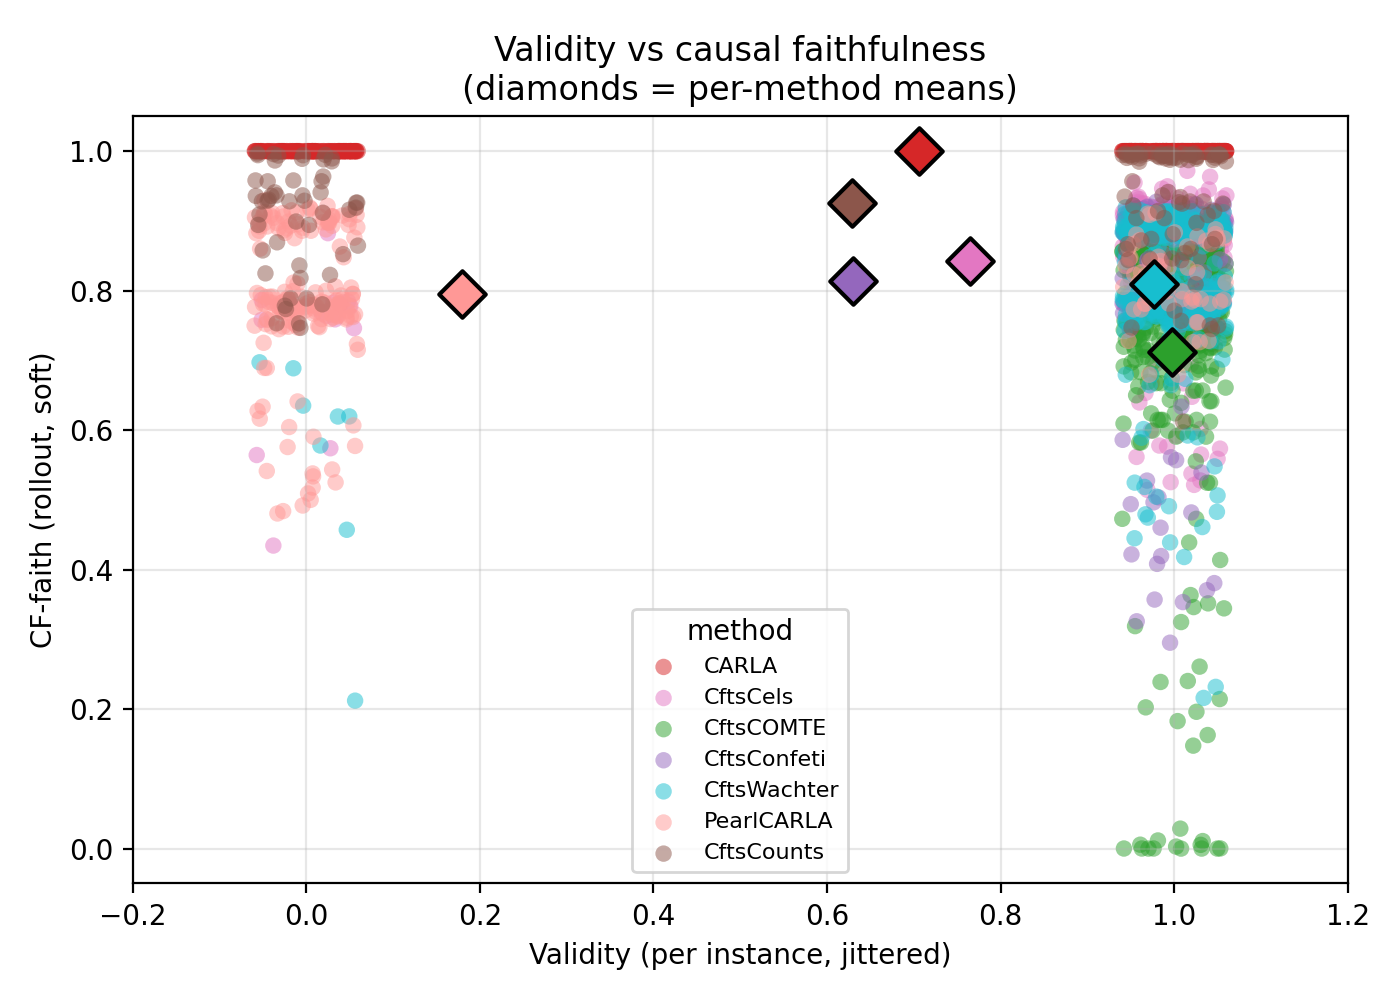
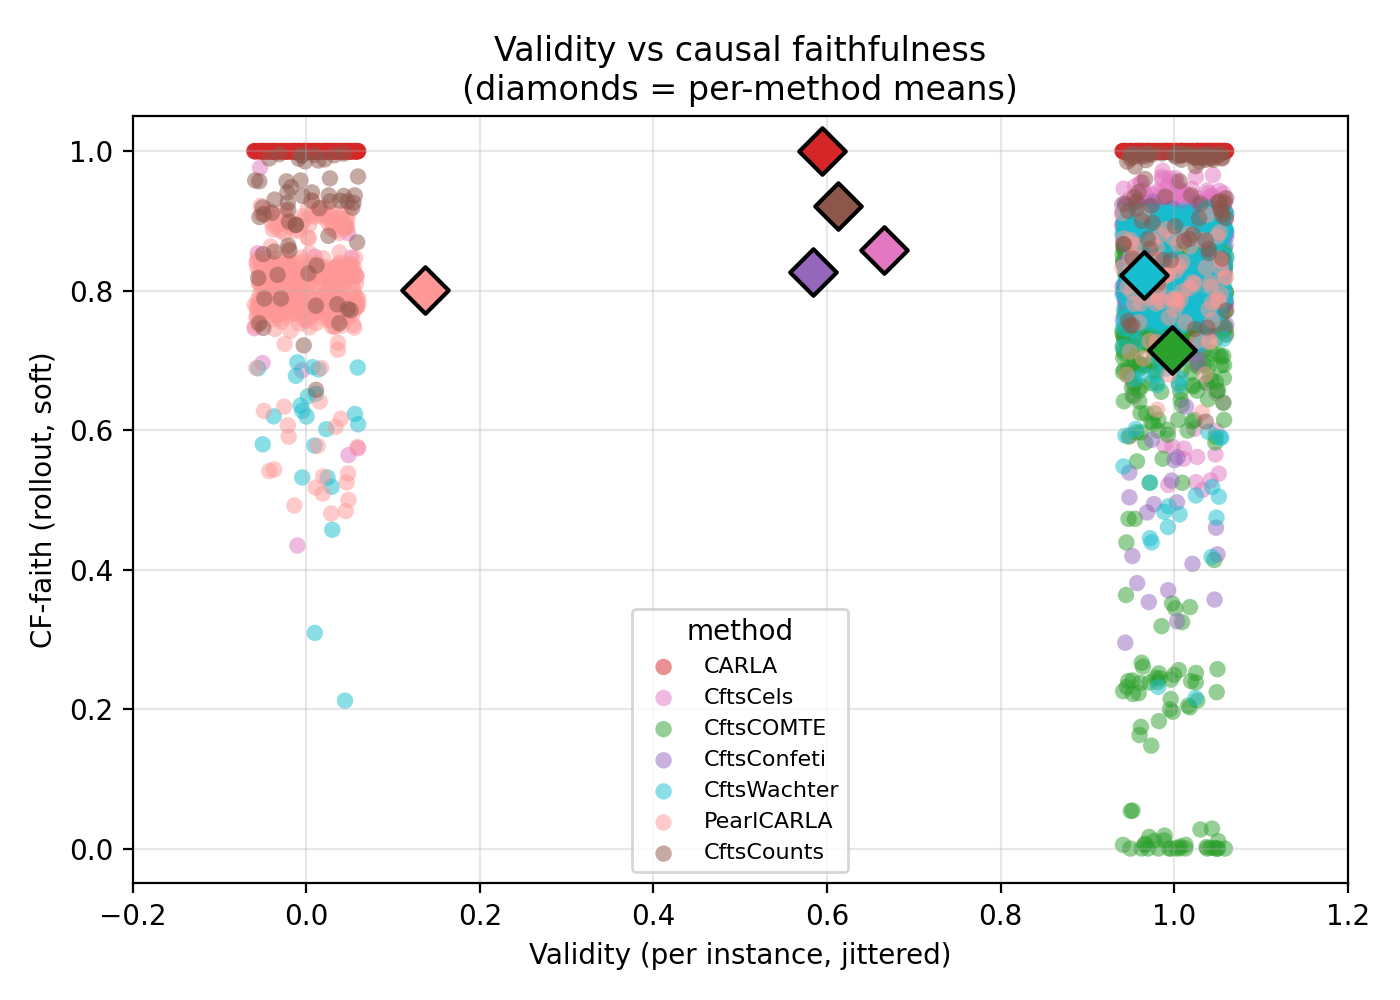
[experiments] fig5: validity vs intervention-to-outcome distance, closing an M2 DoD gap
Closes the M2 DoD item "every validity and PNS figure reported with T - t0" --
none of fig1-4 carried a horizon axis; fig1 pools every config's per-instance
rows into one scatter with no per-config T, so retrofitting T-t0 into it would
have been ambiguous rather than fixed.

fig5_horizon_decay plots validity against T-t0 directly from
table_horizon_<configA>_vs_<configB>.csv -- Phase 06's already-computed,
seed-pooled, bootstrap-CI'd data, not recomputed here -- one line per
(method, config), CI band shaded. Only the CARLA family appears, matching
Phase 06's own deliberate scope (sweeping Wachter-style unconstrained edits on
the same axis as single-do() methods would conflate two failure modes). Skips
cleanly (returns False, writes nothing) if no horizon table exists yet, so a
smoke-only `figures` run doesn't fail on missing paper-scale data.

Renders the actual shape of H8/H8c's evidence: validity near 1.0 at small
T-t0, collapsing past ~T-t0=20 on the terminal-label configs, with the
interior-label configs' curves visibly offset -- the H8c contrast in a single
image rather than only in a table.

460 tests green; lint clean.

diff --git a/experiments/08_aggregate_and_report.py b/experiments/08_aggregate_and_report.py
@@ -389,7 +389,10 @@ def run_figures_report(args) -> None:
     fig2_distributions(data, methods, out_dir / "fig2_cffaith_distribution.png")
     fig3_rank_correlation(data, methods, out_dir / "fig3_rank_correlation.png")
     fig4_do_complexity_calibration(out_dir / "fig4_do_complexity_calibration.pdf")
-    print(f"\n[08] wrote 4 figures to {out_dir}/")
+    n = 4
+    if fig5_horizon_decay(TABLES_DIR, out_dir / "fig5_horizon_decay.png"):
+        n += 1
+    print(f"\n[08] wrote {n} figures to {out_dir}/")
 
 
 # ---------------------------------------------------------------------------
@@ -674,6 +677,84 @@ def fig4_do_complexity_calibration(out_path, seed: int = 0) -> None:
     fig.savefig(out_path, format="pdf")
     plt.close(fig)
     print(f"[08] wrote {out_path}  (D from {ds[0]} to {ds[-1]})")
+
+
+def fig5_horizon_decay(tables_dir: Path, out_path) -> bool:
+    """Validity as a function of the intervention-to-outcome distance ``T - t0``.
+
+    Added 2026-08-04 to close the M2 DoD item "every validity and PNS figure
+    reported with T - t0" -- none of fig1-4 carry a horizon axis. This is the
+    one figure that should: it is the direct plot of H8/H8c's evidence, built
+    from ``table_horizon_<configA>_vs_<configB>.csv`` (Phase 06 pooled across
+    seeds with bootstrap CIs), not recomputed here. Only the CARLA family is
+    swept (Phase 06's own scope note: sweeping Wachter-style unconstrained
+    edits on the same axis as single-``do()`` methods would conflate two
+    different failure modes -- see ``06_horizon_sweep.py``).
+
+    Returns ``False`` (and writes nothing) if no horizon table exists yet, so
+    a smoke-only ``figures`` run does not fail on missing paper-scale data.
+    """
+    paths = sorted(tables_dir.glob("table_horizon_*.csv"))
+    if not paths:
+        print("[08] fig5: no table_horizon_*.csv found -- skipped")
+        return False
+
+    rows = []
+    for p in paths:
+        with open(p, newline="") as fh:
+            rows.extend(csv.DictReader(fh))
+    if not rows:
+        return False
+
+    configs = sorted({r["config"] for r in rows})
+    methods = sorted({r["method"] for r in rows})
+    linestyles = {c: ls for c, ls in zip(configs, ["-", "--", ":", "-."])}
+
+    fig, ax = plt.subplots(figsize=(6.5, 4.5))
+    for method in methods:
+        color = COLORS.get(method, "#333333")
+        for config in configs:
+            pts = sorted(
+                (
+                    (
+                        int(r["T_minus_t0"]),
+                        float(r["validity"]),
+                        float(r["validity_lo"]),
+                        float(r["validity_hi"]),
+                    )
+                    for r in rows
+                    if r["method"] == method and r["config"] == config
+                ),
+                key=lambda t: t[0],
+            )
+            if not pts:
+                continue
+            xs = [p[0] for p in pts]
+            ys = [p[1] for p in pts]
+            los = [p[2] for p in pts]
+            his = [p[3] for p in pts]
+            ax.plot(
+                xs,
+                ys,
+                linestyles[config],
+                color=color,
+                marker="o",
+                ms=4,
+                label=f"{method} ({config})",
+            )
+            ax.fill_between(xs, los, his, color=color, alpha=0.12, linewidth=0)
+
+    ax.set_xlabel(r"Intervention-to-outcome distance $T - t_0$")
+    ax.set_ylabel("Validity (pooled across seeds, 95% CI band)")
+    ax.set_title("Recourse validity vs. horizon (H8/H8c evidence)")
+    ax.set_ylim(-0.05, 1.05)
+    ax.legend(fontsize=7, frameon=False, ncol=2)
+    ax.grid(True, alpha=0.3)
+    fig.tight_layout()
+    fig.savefig(out_path, dpi=200)
+    plt.close(fig)
+    print(f"  [fig] -> {out_path}")
+    return True
 
 
 def _add_pns_args(p) -> None:
